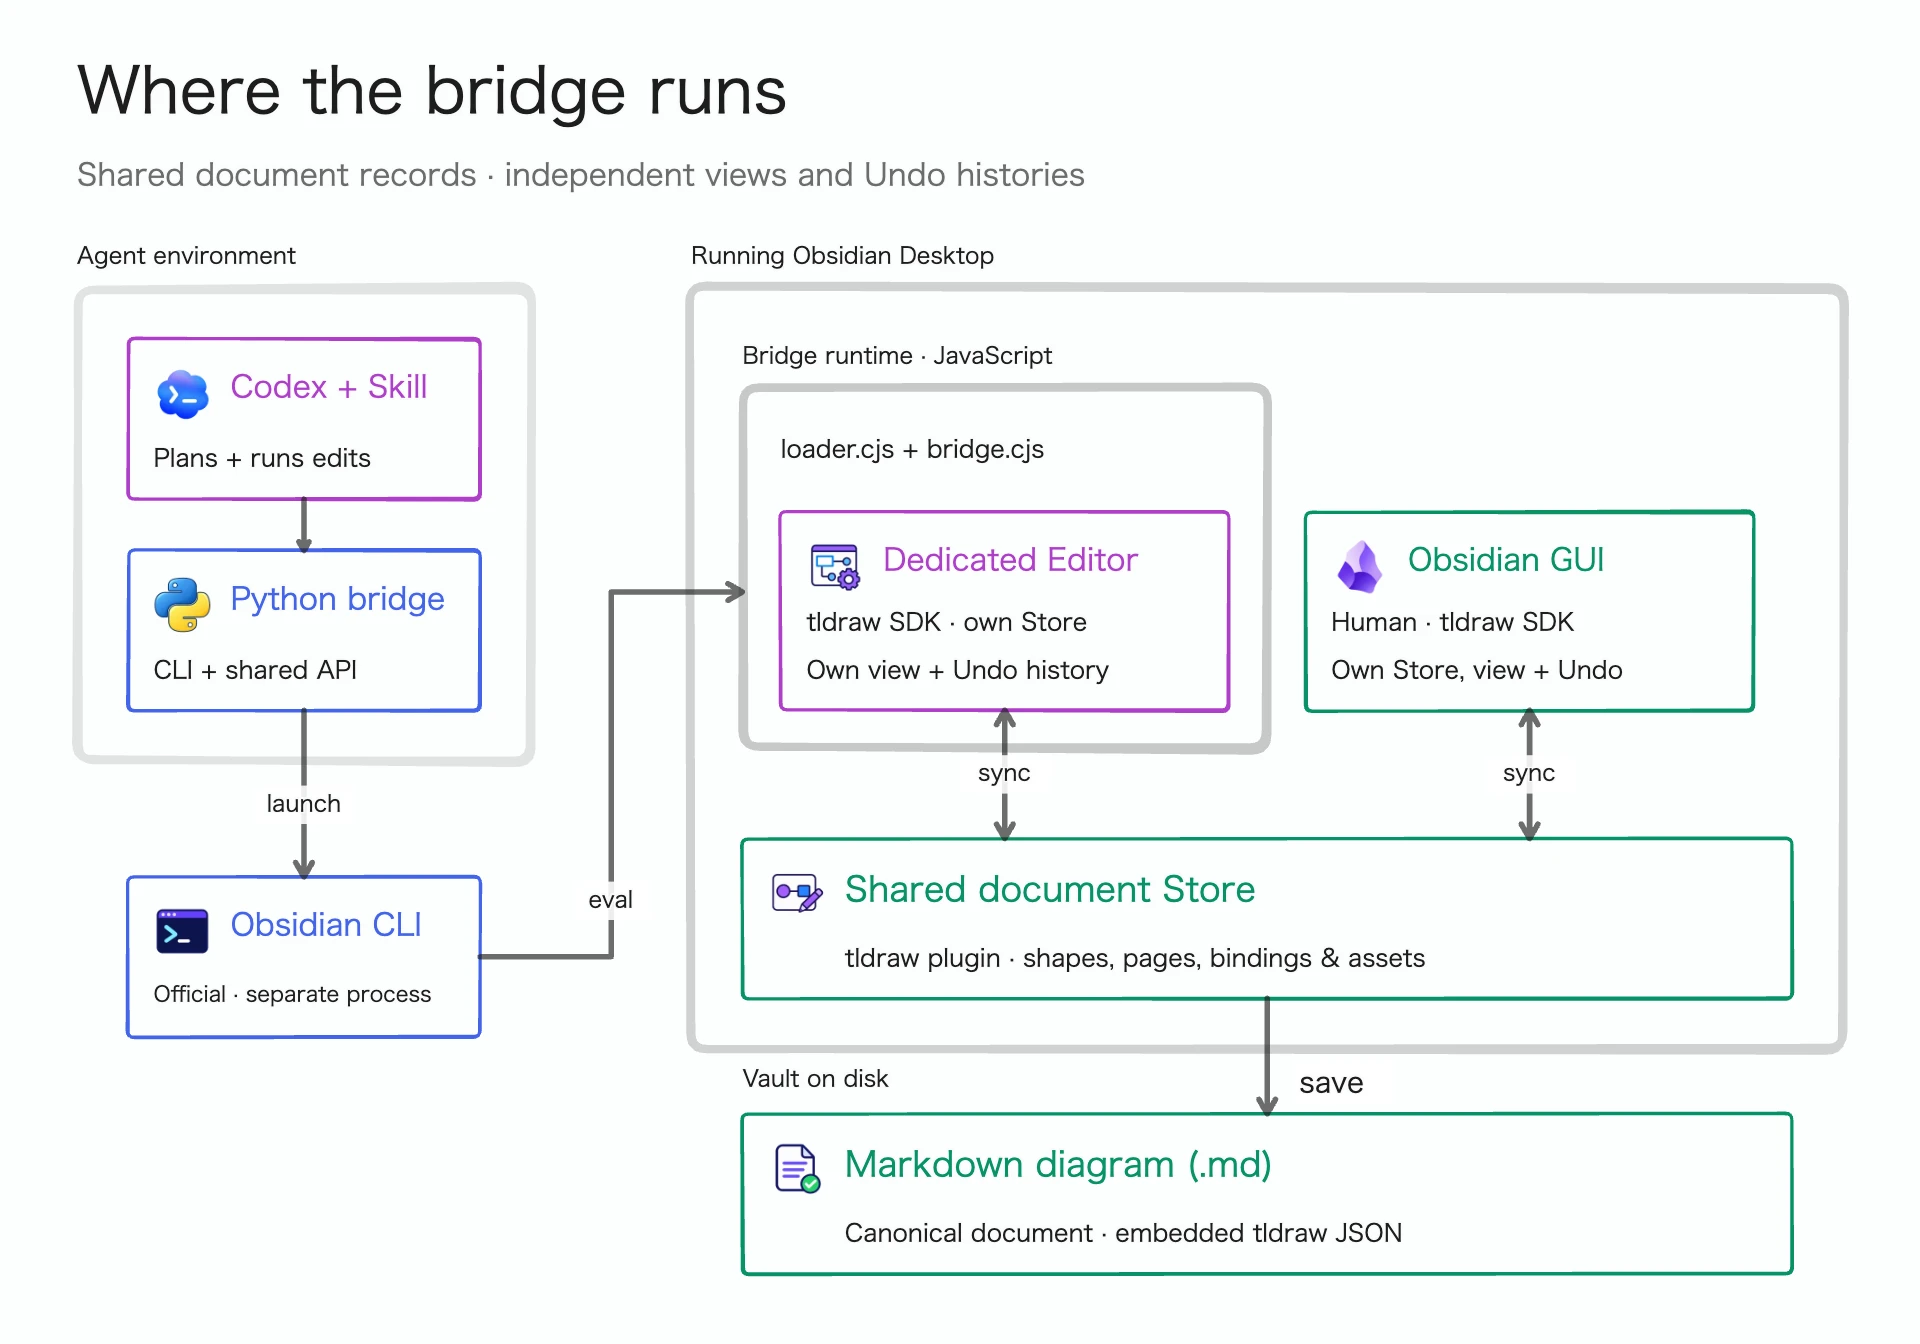
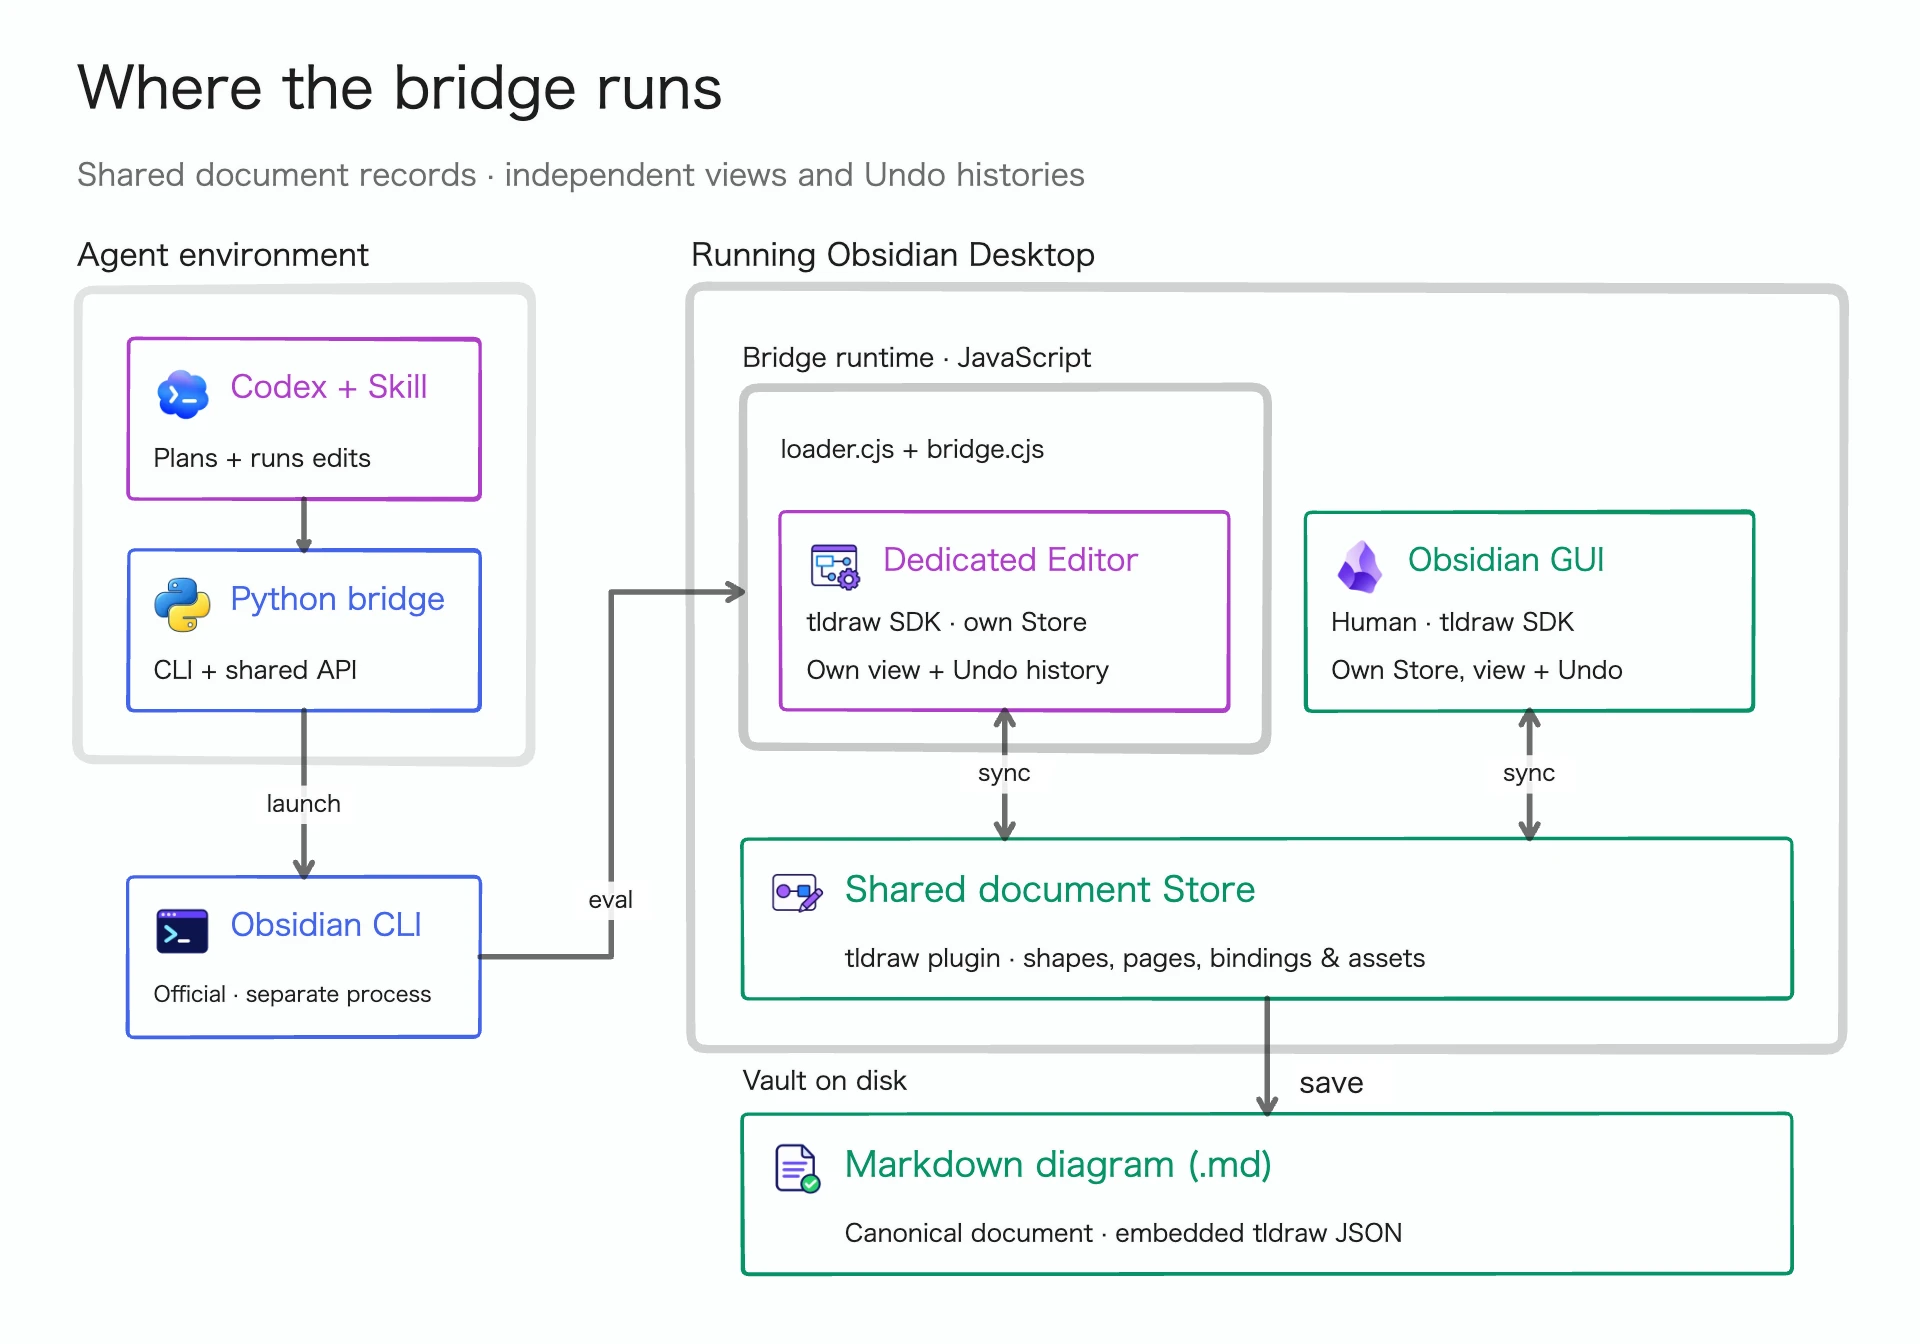
docs: refine diagram typography and restrict XL to exceptional top-level headings

diff --git a/docs/diagrams/diagramming-guide-design-system.md b/docs/diagrams/diagramming-guide-design-system.md
@@ -116,8 +116,8 @@ tags:
 				"parentId": "shape:guide-system",
 				"props": {
 					"color": "violet",
-					"size": "m",
-					"w": 1200,
+					"size": "l",
+					"w": 350,
 					"font": "sans",
 					"textAlign": "start",
 					"autoSize": false,
@@ -130,7 +130,7 @@ tags:
 								"content": [
 									{
 										"type": "text",
-										"text": "MAINTENANCE — select the path for the question"
+										"text": "MAINTENANCE"
 									}
 								]
 							}
@@ -138,6 +138,42 @@ tags:
 					}
 				},
 				"index": "aVBGb",
+				"typeName": "shape"
+			},
+			{
+				"x": 410,
+				"y": 622,
+				"rotation": 0,
+				"isLocked": false,
+				"opacity": 1,
+				"meta": {},
+				"id": "shape:use-subheading",
+				"type": "text",
+				"parentId": "shape:guide-system",
+				"props": {
+					"color": "green",
+					"size": "s",
+					"w": 300,
+					"font": "sans",
+					"textAlign": "start",
+					"autoSize": false,
+					"scale": 1,
+					"richText": {
+						"type": "doc",
+						"content": [
+							{
+								"type": "paragraph",
+								"content": [
+									{
+										"type": "text",
+										"text": "Request to useful diagram"
+									}
+								]
+							}
+						]
+					}
+				},
+				"index": "ajsJE",
 				"typeName": "shape"
 			},
 			{
@@ -920,7 +956,7 @@ tags:
 				"parentId": "shape:guide-system",
 				"props": {
 					"color": "violet",
-					"size": "m",
+					"size": "l",
 					"w": 380,
 					"font": "sans",
 					"textAlign": "start",
@@ -1622,8 +1658,8 @@ tags:
 				"parentId": "shape:guide-system",
 				"props": {
 					"color": "green",
-					"size": "m",
-					"w": 600,
+					"size": "l",
+					"w": 310,
 					"font": "sans",
 					"textAlign": "start",
 					"autoSize": false,
@@ -1636,7 +1672,7 @@ tags:
 								"content": [
 									{
 										"type": "text",
-										"text": "NORMAL USE — request to useful diagram"
+										"text": "NORMAL USE"
 									}
 								]
 							}
@@ -1644,6 +1680,42 @@ tags:
 					}
 				},
 				"index": "aDVwX",
+				"typeName": "shape"
+			},
+			{
+				"x": 470,
+				"y": 1172,
+				"rotation": 0,
+				"isLocked": false,
+				"opacity": 1,
+				"meta": {},
+				"id": "shape:maintenance-subheading",
+				"type": "text",
+				"parentId": "shape:guide-system",
+				"props": {
+					"color": "violet",
+					"size": "s",
+					"w": 850,
+					"font": "sans",
+					"textAlign": "start",
+					"autoSize": false,
+					"scale": 1,
+					"richText": {
+						"type": "doc",
+						"content": [
+							{
+								"type": "paragraph",
+								"content": [
+									{
+										"type": "text",
+										"text": "Select the path for the question"
+									}
+								]
+							}
+						]
+					}
+				},
+				"index": "akk0z",
 				"typeName": "shape"
 			},
 			{
@@ -2618,7 +2690,7 @@ tags:
 				"parentId": "shape:guide-system",
 				"props": {
 					"color": "blue",
-					"size": "m",
+					"size": "l",
 					"w": 750,
 					"font": "sans",
 					"textAlign": "start",

diff --git a/integrations/codex/skills/obsidian-tldraw/references/diagramming/index.md b/integrations/codex/skills/obsidian-tldraw/references/diagramming/index.md
@@ -75,6 +75,7 @@ Fix defects and inspect the updated rendering before completion. If the structur
 ## Project conventions
 
 - **Diagram extent:** Adjust the overall width:height continuously as 1:n, with n determined by the content. Use three preferred reference proportions: 1:0.6 for an initial landscape layout, 1:0.7 when more vertical room is needed, and 1:1.4 for a taller layout. These are guides, not mandatory steps or exact targets; intermediate values and further vertical growth are equally valid. Fit the intended viewing width at a readable scale; growing vertically is the project's work-PC default, not a claim that horizontal navigation is always harder. Available viewport space and the need to compare related elements constrain the choice. Consider regrouping or overview/detail separation before shrinking text; allow extra width when a timeline, lanes, or dependencies benefit from horizontal continuity. Check the actual pan/zoom burden and readability rather than aspect-ratio compliance. Do not add empty space to match a guide value. This concerns the whole diagram, while individual nodes may remain wider than tall.
+- **Text size:** Start with M. Use S for secondary annotations and L selectively for headings when they improve hierarchy or readability. Reserve XL for exceptional cases, only at the single highest heading level; do not use it for lower-level headings, node labels, or routine emphasis. Keep size differences restrained and comparable elements consistent, checking readability at the intended display size.
 - **Node outlines:** The default line style for node outlines is hand-drawn (`draw`).
 - **Text alignment:** Use left-aligned text by default. Center alignment can suit labels over lines, arrows, or grouping enclosure boundaries. Choose center alignment (or, rarely, right alignment) when it improves readability or clarifies the relationship between the text and nearby elements.
 - **Named frames:** Use one descriptively named frame per diagram as the project default. Use ordinary enclosure shapes for node groups, subsystem boundaries, and other containment within a diagram. Nested frames are rare: use them only when a diagram itself contains another diagram that warrants its own frame. Leave boundaries open for exploration or when framing would obscure the intended relationship.

diff --git a/plugins/obsidian-tldraw-bridge/skills/obsidian-tldraw/references/diagramming/index.md b/plugins/obsidian-tldraw-bridge/skills/obsidian-tldraw/references/diagramming/index.md
@@ -75,6 +75,7 @@ Fix defects and inspect the updated rendering before completion. If the structur
 ## Project conventions
 
 - **Diagram extent:** Adjust the overall width:height continuously as 1:n, with n determined by the content. Use three preferred reference proportions: 1:0.6 for an initial landscape layout, 1:0.7 when more vertical room is needed, and 1:1.4 for a taller layout. These are guides, not mandatory steps or exact targets; intermediate values and further vertical growth are equally valid. Fit the intended viewing width at a readable scale; growing vertically is the project's work-PC default, not a claim that horizontal navigation is always harder. Available viewport space and the need to compare related elements constrain the choice. Consider regrouping or overview/detail separation before shrinking text; allow extra width when a timeline, lanes, or dependencies benefit from horizontal continuity. Check the actual pan/zoom burden and readability rather than aspect-ratio compliance. Do not add empty space to match a guide value. This concerns the whole diagram, while individual nodes may remain wider than tall.
+- **Text size:** Start with M. Use S for secondary annotations and L selectively for headings when they improve hierarchy or readability. Reserve XL for exceptional cases, only at the single highest heading level; do not use it for lower-level headings, node labels, or routine emphasis. Keep size differences restrained and comparable elements consistent, checking readability at the intended display size.
 - **Node outlines:** The default line style for node outlines is hand-drawn (`draw`).
 - **Text alignment:** Use left-aligned text by default. Center alignment can suit labels over lines, arrows, or grouping enclosure boundaries. Choose center alignment (or, rarely, right alignment) when it improves readability or clarifies the relationship between the text and nearby elements.
 - **Named frames:** Use one descriptively named frame per diagram as the project default. Use ordinary enclosure shapes for node groups, subsystem boundaries, and other containment within a diagram. Nested frames are rare: use them only when a diagram itself contains another diagram that warrants its own frame. Leave boundaries open for exploration or when framing would obscure the intended relationship.

diff --git a/docs/diagrams/architecture.md b/docs/diagrams/architecture.md
@@ -283,7 +283,7 @@ tags:
 					"font": "sans",
 					"textAlign": "start",
 					"autoSize": false,
-					"scale": 0.8,
+					"scale": 0.9,
 					"richText": {
 						"type": "doc",
 						"content": [
@@ -574,11 +574,11 @@ tags:
 				"props": {
 					"color": "black",
 					"size": "s",
-					"w": 328,
+					"w": 380,
 					"font": "sans",
 					"textAlign": "start",
 					"autoSize": false,
-					"scale": 0.8,
+					"scale": 0.9,
 					"richText": {
 						"type": "doc",
 						"content": [
@@ -1302,12 +1302,12 @@ tags:
 				"parentId": "shape:readme-architecture",
 				"props": {
 					"color": "black",
-					"size": "xl",
+					"size": "l",
 					"w": 1180,
 					"font": "sans",
 					"textAlign": "start",
 					"autoSize": false,
-					"scale": 0.9,
+					"scale": 1,
 					"richText": {
 						"type": "doc",
 						"content": [
@@ -1508,7 +1508,7 @@ tags:
 			},
 			{
 				"x": 48,
-				"y": 150,
+				"y": 146,
 				"rotation": 0,
 				"isLocked": false,
 				"opacity": 1,
@@ -1518,7 +1518,7 @@ tags:
 				"parentId": "shape:readme-architecture",
 				"props": {
 					"color": "black",
-					"size": "s",
+					"size": "m",
 					"w": 355,
 					"font": "sans",
 					"textAlign": "start",
@@ -2319,7 +2319,7 @@ tags:
 			},
 			{
 				"x": 432,
-				"y": 150,
+				"y": 146,
 				"rotation": 0,
 				"isLocked": false,
 				"opacity": 1,
@@ -2329,7 +2329,7 @@ tags:
 				"parentId": "shape:readme-architecture",
 				"props": {
 					"color": "black",
-					"size": "s",
+					"size": "m",
 					"w": 720,
 					"font": "sans",
 					"textAlign": "start",
